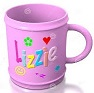
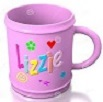
Change in mug screen and transition to upload screen from mug subscreen and poster subscreen

diff --git a/src/com/printit/view/MugPrint.java b/src/com/printit/view/MugPrint.java
@@ -53,7 +53,7 @@ public class MugPrint implements IScreen, ChainHandler {
 
 	@Override
 	public void draw(PApplet applet) {
-		PImage img=applet.loadImage("/phone.png");
+		PImage img=applet.loadImage("mugscreen.png");
 		applet.image(img, 0,0);
 		img1 = applet.loadImage("ceramicmug.jpg");
 		img2= applet.loadImage("plasticmug.jpg");
@@ -61,18 +61,18 @@ public class MugPrint implements IScreen, ChainHandler {
 		img4= applet.loadImage("steelmug.jpg");
 		
 		// TODO Auto-generated method stub
-		
-		applet.image(img1, 72, 248);
-		
-		
-		
-		applet.image(img2, 202,248);
+		//Sports = applet.loadImage("sports.png");
+		applet.image(img1, 44, 214);
 		
 		
-		applet.image(img3, 72,374);
+		//Corporate = applet.loadImage("corporate.png");
+		applet.image(img2, 196,218);
 		
+		//Music = applet.loadImage("music.png");
+		applet.image(img3, 41,394);
 		
-		applet.image(img4, 202,374);
+		//Charity = applet.loadImage("charity.png");
+		applet.image(img4, 186,396);
 		
 	}
 	@Override
@@ -80,10 +80,11 @@ public class MugPrint implements IScreen, ChainHandler {
 		if(successor==null)System.out.println("Successor null in mug");
 		System.out.println("handle req in mug print"  + successor.toString());
 		// TODO Auto-generated method stub
-		if (x >= 45 && y  >= 210						
+		if (x >= 45 && y  >= 210						//Corporate Event
 				&& x <= 150 && y <= 315) {
 			System.out.println("**********MugPrint************");
 			appController.setCurrentScreen(((HomeScreen)appController.getHomeScreen()).getMugPrint());
+			
 		}
 		else{
 			if (successor != null){

diff --git a/src/com/printit/controller/AppController.java b/src/com/printit/controller/AppController.java
@@ -2,6 +2,7 @@ package com.printit.controller;
 
 import com.printit.view.HomeScreen;
 import com.printit.view.PinScreen;
+import com.printit.view.UploadScreen;
 
 import processing.core.PApplet;
 
@@ -16,6 +17,7 @@ public class AppController extends PApplet{
 	
 	IScreen currentScreen;
 	IScreen mugPrint;
+	IScreen uploadScreen;
 	double cost;
 	
 	
@@ -26,6 +28,7 @@ public class AppController extends PApplet{
 		//mugPrint = new MugPrint(this);
 		
 		currentScreen = pinScreen;
+		uploadScreen=new UploadScreen(this);
 		//currentScreen = homeScreen;
 		
 		setCurrentScreen(pinScreen);
@@ -79,7 +82,14 @@ public class AppController extends PApplet{
 	public void setHomeScreen(IScreen homeScreen) {
 		this.homeScreen = homeScreen;
 	}
-
+	
+	public IScreen getUploadScreen(){
+		return uploadScreen;
+	}
+	
+	public void setUploadScreen(IScreen uploadScreen){
+		this.uploadScreen=uploadScreen;
+	}
 
 	
 }

diff --git a/src/com/printit/view/CeramicMug.java b/src/com/printit/view/CeramicMug.java
@@ -14,10 +14,10 @@ public class CeramicMug implements ChainHandler{
 	public void handleRequest(int x, int y) {
 		// TODO Auto-generated method stub
 		System.out.println("Handle of Cereamic Mug");
-		if (x >= 79 && y  >= 253						
-				&& x <= 139 && y <= 314) {
+		if (x >= 44 && y  >= 214						//Corporate Event
+				&& x <= 156 && y <= 317) {
 			System.out.println("**********CeramicPrint************");
-			appController.setCurrentScreen(((HomeScreen)appController.getHomeScreen()).getMugPrint());
+			appController.setCurrentScreen(appController.getUploadScreen());
 		}
 		else{
 			if (successor != null){

diff --git a/src/com/printit/view/SizeA1PosterPrint.java b/src/com/printit/view/SizeA1PosterPrint.java
@@ -19,7 +19,7 @@ public class SizeA1PosterPrint implements ChainHandler{
 		if (x >= 199 && y  >= 219						
 				&& x <= 302 && y <= 334) {
 			System.out.println("**********Size A1************");
-			appController.setCurrentScreen(((HomeScreen)appController.getHomeScreen()).getMugPrint());
+			appController.setCurrentScreen(appController.getUploadScreen());
 		}
 		else{
 			if (successor != null){

diff --git a/src/com/printit/view/SizeA3PosterPrint.java b/src/com/printit/view/SizeA3PosterPrint.java
@@ -19,7 +19,7 @@ public class SizeA3PosterPrint implements ChainHandler{
 		if (x >= 201 && y  >= 417						
 				&& x <= 285 && y <= 475) {
 			System.out.println("**********Sise A3************");
-			appController.setCurrentScreen(((HomeScreen)appController.getHomeScreen()).getMugPrint());
+			appController.setCurrentScreen(appController.getUploadScreen());
 		}
 		else{
 			if (successor != null){

diff --git a/src/com/printit/view/SizeA0PosterPrint.java b/src/com/printit/view/SizeA0PosterPrint.java
@@ -19,7 +19,7 @@ public class SizeA0PosterPrint implements ChainHandler{
 		if (x >= 38 && y  >= 217						
 				&& x <= 154 && y <= 390) {
 			System.out.println("**********Size A0************");
-			appController.setCurrentScreen(((HomeScreen)appController.getHomeScreen()).getMugPrint());
+			appController.setCurrentScreen(appController.getUploadScreen());
 		}
 		else{
 			if (successor != null){

diff --git a/src/com/printit/view/SizeA2PosterPrint.java b/src/com/printit/view/SizeA2PosterPrint.java
@@ -19,7 +19,7 @@ public class SizeA2PosterPrint implements ChainHandler{
 		if (x >= 44 && y  >= 409						
 				&& x <= 130 && y <= 538) {
 			System.out.println("**********Size A2************");
-			appController.setCurrentScreen(((HomeScreen)appController.getHomeScreen()).getMugPrint());
+			appController.setCurrentScreen(appController.getUploadScreen());
 		}
 		else{
 			if (successor != null){

diff --git a/src/com/printit/view/PlasticMug.java b/src/com/printit/view/PlasticMug.java
@@ -17,7 +17,7 @@ public class PlasticMug implements ChainHandler{
 		if (x >= 206 && y  >= 260						
 				&& x <= 273 && y <= 334) {
 			System.out.println("**********PlasticPrint************");
-			appController.setCurrentScreen(((HomeScreen)appController.getHomeScreen()).getMugPrint());
+			appController.setCurrentScreen(appController.getUploadScreen());
 		}
 		else{
 			if (successor != null){

diff --git a/src/com/printit/view/SteelMug.java b/src/com/printit/view/SteelMug.java
@@ -17,7 +17,7 @@ public class SteelMug implements ChainHandler{
 		if (x >= 209 && y  >= 373						
 				&& x <= 286 && y <= 484) {
 			System.out.println("**********SteelPrint************");
-			appController.setCurrentScreen(((HomeScreen)appController.getHomeScreen()).getMugPrint());
+			appController.setCurrentScreen(appController.getUploadScreen());
 		}
 		else{
 			if (successor != null){

diff --git a/src/com/printit/view/GlassMug.java b/src/com/printit/view/GlassMug.java
@@ -17,7 +17,7 @@ public class GlassMug implements ChainHandler{
 		if (x >= 72 && y  >= 379						
 				&& x <= 145 && y <= 470) {
 			System.out.println("**********GlassPrint************");
-			appController.setCurrentScreen(((HomeScreen)appController.getHomeScreen()).getMugPrint());
+			appController.setCurrentScreen(appController.getUploadScreen());
 		}
 		else{
 			if (successor != null){
